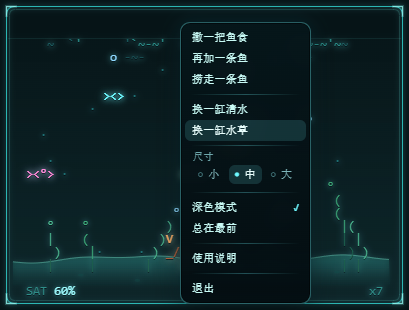
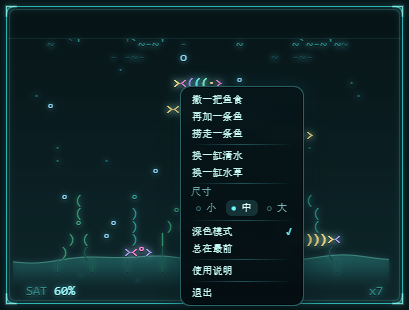
修小尺寸菜单遮挡

diff --git a/cyber-aquarium/renderer/style.css b/cyber-aquarium/renderer/style.css
@@ -172,3 +172,36 @@ body.dark {
   background: transparent;
   color: inherit;
 }
+/* 小尺寸窗口里菜单可能比鱼缸还高：允许内部滚动，并收紧行高 */
+#menu {
+  max-height: calc(100vh - 8px);
+  overflow-y: auto;
+  overscroll-behavior: contain;
+}
+
+#menu::-webkit-scrollbar {
+  width: 5px;
+}
+
+#menu::-webkit-scrollbar-thumb {
+  background: rgba(110, 249, 255, 0.28);
+  border-radius: 3px;
+}
+
+@media (max-height: 330px) {
+  #menu {
+    font-size: 10px;
+  }
+  #menu button {
+    height: 17px;
+  }
+  #menu hr {
+    margin: 2px 6px;
+  }
+  #menu .menu-row {
+    padding: 1px 6px 2px;
+  }
+  #menu button.dot {
+    height: 16px;
+  }
+}

diff --git a/cyber-aquarium/renderer/app.js b/cyber-aquarium/renderer/app.js
@@ -1688,8 +1688,11 @@ function openMenuAt(px, py) {
   menuEl.hidden = false
   const w = menuEl.offsetWidth
   const h = menuEl.offsetHeight
-  const left = clamp(px, 6, Math.max(6, view.w - w - 6))
-  const top = clamp(py, 6, Math.max(6, view.h - h - 6))
+  // 菜单比窗口还高时（小尺寸）：贴到 0，剩下的靠菜单内部滚动
+  const maxLeft = Math.max(2, view.w - w - 4)
+  const maxTop = Math.max(2, view.h - h - 4)
+  const left = clamp(px, 2, maxLeft)
+  const top = clamp(py, 2, maxTop)
   menuEl.style.left = Math.round(left) + 'px'
   menuEl.style.top = Math.round(top) + 'px'
 }

diff --git a/说明书.html b/说明书.html
@@ -203,6 +203,8 @@
   <tr><td>退出</td><td>关掉它（会先把位置和状态存好）</td></tr>
 </table>
 
+<p class="kv">小尺寸下菜单会自动收紧行高（窗口实在装不下时菜单内部还能滚动），不会把「退出」挡在窗口外面。</p>
+
 <h2 id="save">10 · 存档和常见问题</h2>
 <p>位置、尺寸、外壳、饱食度、鱼数都存在这里：</p>
 <p><code>%APPDATA%\cyber-aquarium\state.json</code></p>

diff --git a/README.md b/README.md
@@ -93,6 +93,7 @@ tools\重新打包.cmd
 - **深色模式**：在画布下面铺一层纯色底（`body.dark { background-color: #061417 }`），画布保持透明，所以辉光会透在底色上；缸内内容一个像素都不改
 - **换一缸清水 / 换一缸水草**：都在 `runAction()` 里。`clear` 只 `model.pellets.length = 0`；`scape` 调 `seedPlants()` 重新生成 9 株（位置/高低/形态/色调全随机），顺手也清鱼食
 - **总在最前**：勾选状态实时生效，走 `window.aq.setTop()`
+- **小尺寸也能用**：菜单比窗口高时，`@media (max-height:330px)` 把行高收到 17px；万一还高就靠 `#menu{max-height:calc(100vh - 8px);overflow-y:auto}` 内部滚动。打开位置用 `Math.max(2, …)` 夹取，不会出现负坐标把底部切掉
 - **使用说明**：`shell.openPath()` 打开程序目录上一级的 `说明书.html`（开发布局在项目根，发布包里和 exe 同级）；走 `aq:manual` IPC，preload 暴露 `openManual()`
 ## 鱼的性格
 
